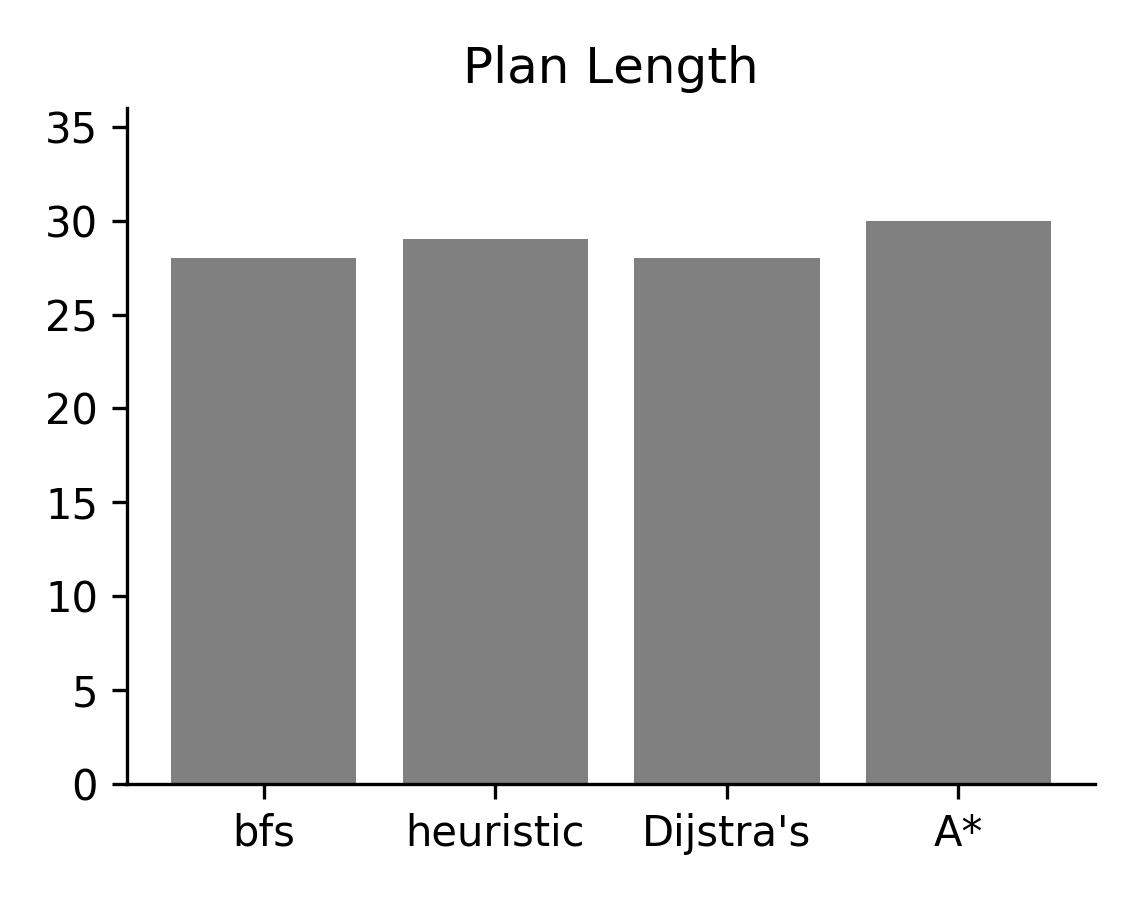
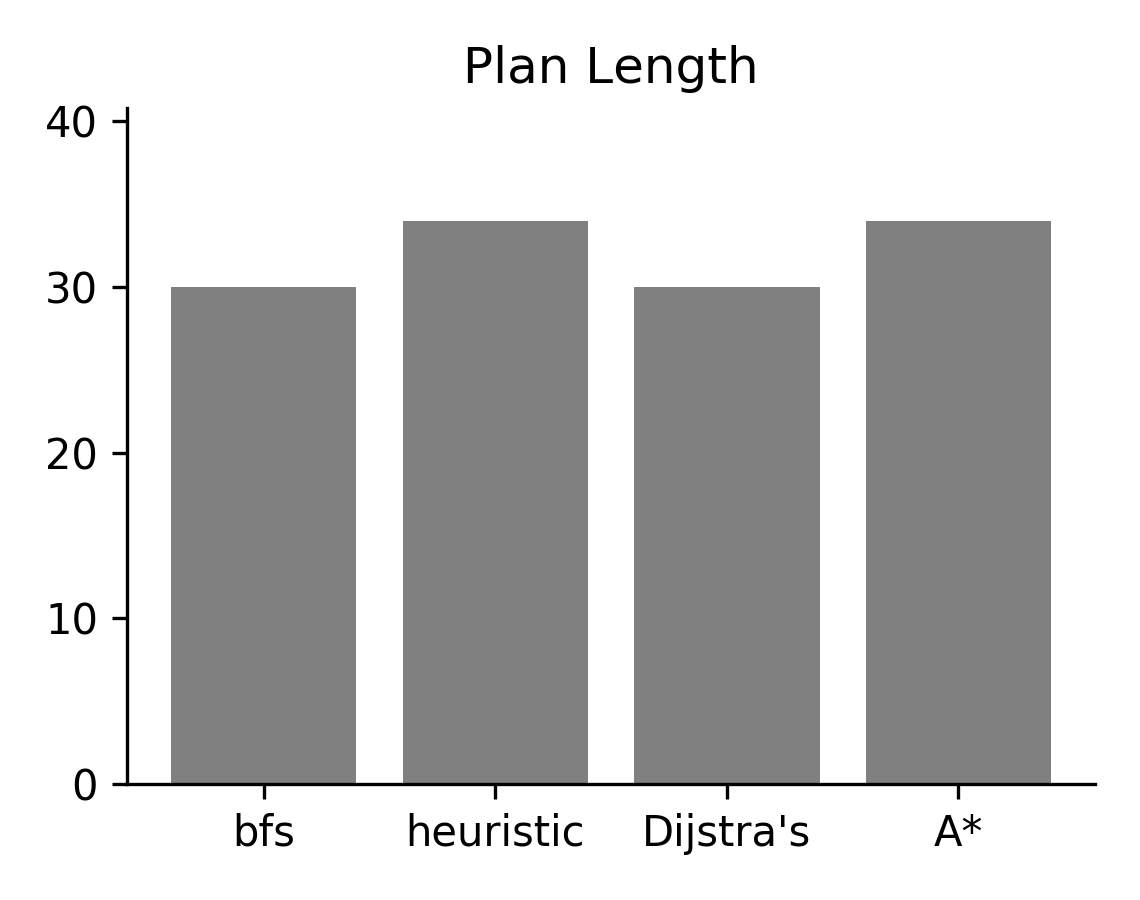
add note on planning length, add note on A* guarantee update title and description

diff --git a/graph_search/maze_analysis.py b/graph_search/maze_analysis.py
@@ -21,7 +21,7 @@ class Args(ParamsProto):
     n_rollout = 50
     n_timesteps = 1
     neighbor_r = 0.036
-    neighbor_r_min = 0.02
+    neighbor_r_min = None
 
     h_scale = 3
 
@@ -77,8 +77,9 @@ def maze_graph(trajs):
         graph.add_node(i, pos=xy)
     for i, a in graph.nodes.items():
         for j, b in graph.nodes.items():
-            if d(a['pos'], b['pos']) < Args.neighbor_r and \
-                    d(a['pos'], b['pos']) > Args.neighbor_r_min:
+            if d(a['pos'], b['pos']) < Args.neighbor_r \
+                    and (Args.neighbor_r_min is None
+                         or d(a['pos'], b['pos']) > Args.neighbor_r_min):
                 graph.add_edge(i, j, weight=d(a['pos'], b['pos']))
 
     # if Args.visualize_graph:

diff --git a/README.md b/README.md
@@ -1,6 +1,6 @@
-# graph_search
+# Graph Search Algorithms
 
-collection of graph-search algorithms
+A small collection of graph-search algorithms and analysis.
 
 ## Constructing and Visualizing the State Graph
 
@@ -38,7 +38,9 @@ To visualize which node has been touched, we use the code in [analysis.py](./gra
    method   | priority 
 :---------: | ----------
  dijkstra's | `D(next)`, the length to the node
- A*         | `D(next) + H(next, goal)`.
+ A*         | `D(next) + H(next, goal) * scale`.
+ 
+> Note: in order for A* to find the shortest path, the heuristics need to be "admissible". Otherwise there is no guarantee. Here our scaling factor breaks this assumption.
 
 ## Maze Environment Planning Result
 
@@ -62,6 +64,8 @@ We can compare the number of distance look-ups that are required among these met
 </p>
 
 With a learned reacheability heuristics, `plan2vec` should do better than `A*` with a Euclidean heuristic.
+
+(The planning lenght is not computed using the weights)
 
 ## Graph Interface
 
